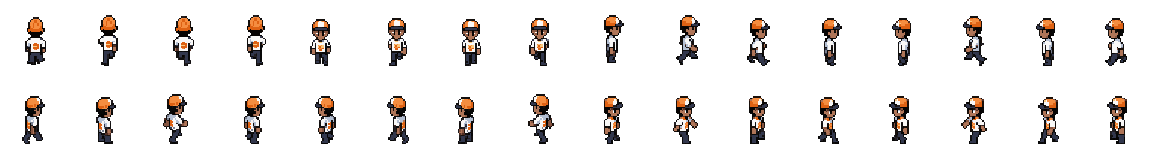
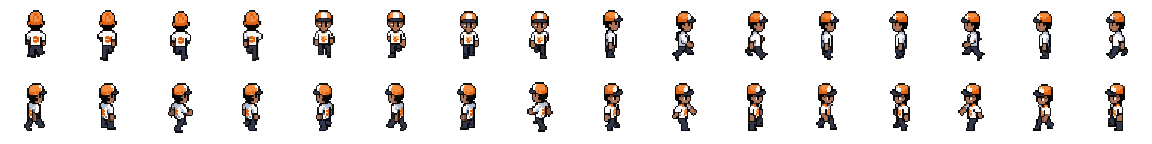
Alterações em colisões e dinâmica de funcionamento de mapa

Changed region(s): [[0.0, 0.5833, 1.0, 1.0], [0.0, 0.0833, 1.0, 0.4722]]

diff --git a/src/gameplay/jogador.c b/src/gameplay/jogador.c
@@ -38,7 +38,7 @@ static Rectangle regiao_solida_tile(char tile, int linha, int coluna)
  * @return true se o retângulo colide com o mapa
  * @return false caso o retângulo esteja inteiramente sobre área livre
  */
-static bool colide_mapa(const Jogo *jogo, Rectangle r)
+static bool colide_mapa(const Mapa *mapa, Rectangle r)
 {
     if (r.x < 0.0f || r.y < 0.0f ||
         r.x + r.width > MAPA_COLUNAS * TILE_SIZE ||
@@ -46,13 +46,13 @@ static bool colide_mapa(const Jogo *jogo, Rectangle r)
         return true; /* fora da matriz conta como parede */
 
     int coluna0 = (int)(r.x / TILE_SIZE);
-    int coluna1 = (int)((r.x + r.width) / TILE_SIZE);
+    int coluna1 = (int)ceilf((r.x + r.width) / TILE_SIZE) - 1;
     int linha0 = (int)(r.y / TILE_SIZE);
-    int linha1 = (int)((r.y + r.height) / TILE_SIZE);
+    int linha1 = (int)ceilf((r.y + r.height) / TILE_SIZE) - 1;
 
     for (int linha = linha0; linha <= linha1; linha++) {
         for (int coluna = coluna0; coluna <= coluna1; coluna++) {
-            Rectangle solido = regiao_solida_tile(jogo->mapa.tiles[linha][coluna], linha, coluna);
+            Rectangle solido = regiao_solida_tile(mapa->tiles[linha][coluna], linha, coluna);
             if (solido.width > 0.0f && CheckCollisionRecs(r, solido))
                 return true;
         }
@@ -74,12 +74,24 @@ void atualiza_hitbox_jogador(Jogador *jogador)
         sprite_x + PERSONAGEM_X0_NO_FRAME * escala,
         sprite_y + PERSONAGEM_Y0_NO_FRAME * escala,
         (PERSONAGEM_X1_NO_FRAME - PERSONAGEM_X0_NO_FRAME + 1.0f) * escala,
-        (PERSONAGEM_Y1_NO_FRAME - PERSONAGEM_Y0_NO_FRAME + 1.0f) * escala};
+        (PERSONAGEM_Y1_NO_FRAME - PERSONAGEM_Y0_NO_FRAME + 1.0f) * escala - TILE_SIZE / 2};
 }
 
 void atualiza_jogador(Jogo *jogo)
 {
     Jogador *jogador = &jogo->jogador;
+    const Mapa *mapa;
+
+    switch (jogo->tela_atual) {
+    case RECEPCAO:
+        mapa = &jogo->mapa[MAPA_RECEPCAO];
+        break;
+    case COZINHA:
+        mapa = &jogo->mapa[MAPA_COZINHA];
+        break;
+    default:
+        return;
+    }
 
     float dx = 0.0f;
     float dy = 0.0f;
@@ -105,12 +117,12 @@ void atualiza_jogador(Jogo *jogo)
        continua deslizando no outro */
     Rectangle teste = jogador->hitbox;
     teste.x += dx * passo;
-    if (!colide_mapa(jogo, teste))
+    if (!colide_mapa(mapa, teste))
         jogador->posicao.x += dx * passo;
 
     teste = jogador->hitbox;
     teste.y += dy * passo;
-    if (!colide_mapa(jogo, teste))
+    if (!colide_mapa(mapa, teste))
         jogador->posicao.y += dy * passo;
 
     /* o tile atual passa a ser o tile sobre o centro da hitbox */

diff --git a/src/presentation/render.c b/src/presentation/render.c
@@ -6,13 +6,21 @@ static Font fonte_jogo;
 Texture2D recepcao;
 Texture2D cozinha;
 Texture2D jogador_frames;
+Texture2D parede_baixo;
+Texture2D bancada_normal;
+Texture2D bancada_tabua;
+Texture2D fogao;
 void carregaAssets(void)
 {
     jogador_frames = LoadTexture("assets/imagens/principal.png");
     recepcao = LoadTexture("assets/imagens/mapas/mapa_1.png");
     cozinha = LoadTexture("assets/imagens/mapas/mapa_2.png");
     fundo = LoadTexture("assets/imagens/Imagem_Fundo_Dado_Burger.png");
+    parede_baixo = LoadTexture("assets/imagens/mapas/parede_baixo_mapa_2.png");
     fonte_jogo = GetFontDefault();
+    bancada_normal = LoadTexture("assets/imagens/cozinha/bancada.png");
+    fogao = LoadTexture("assets/imagens/cozinha/fogao.png");
+    bancada_tabua = LoadTexture("assets/imagens/cozinha/bancada_tabua.png");
 }
 
 bool coloreSeColide(Rectangle rec, Vector2 pos_mouse)
@@ -251,6 +259,10 @@ void desenhaJogador(Jogador *jogador)
     }
     DrawTexturePro(jogador_frames, tamanho_frames(&jogador->animacao, 72, 72, 16),
                    retangulo_jogador, centro, 0.0f, WHITE);
+}
+
+void desenhaEquipamentos(const Jogo * jogo){
+    
 }
 
 void desenhaJogo(Jogo *jogo)
@@ -572,13 +584,24 @@ void desenhaJogo(Jogo *jogo)
         DrawTexturePro(recepcao, origem, destino, (Vector2){0, 0}, 0.0f, WHITE);
         desenhaJogador(&jogo->jogador);
         atualiza_anim_entidades(jogo);
+        float distancia_para_cozinha = (MAPA_COLUNAS - 2) * TILE_SIZE;
+        if(jogo->jogador.posicao.x >= distancia_para_cozinha){
+            jogo->tela_atual = COZINHA;
+        }
 
         break;
 
     case COZINHA:
-        Rectangle origem_2 = {0, 0, (float)recepcao.width, (float)recepcao.height};
+        Rectangle origem_2 = {0, 0, (float)cozinha.width, (float)cozinha.height};
         Rectangle destino_2 = {0, 0, JANELA_LARGURA, JANELA_ALTURA}; /* 1280x720 */
         DrawTexturePro(cozinha, origem_2, destino_2, (Vector2){0, 0}, 0.0f, WHITE);
+        desenhaEquipamentos(jogo);
+        desenhaJogador(&jogo->jogador);
+        Rectangle origem_parede_baixo = {
+            0, 0, (float)parede_baixo.width, (float)cozinha.height};
+        DrawTexturePro(parede_baixo, origem_parede_baixo, destino_2,
+                       (Vector2){0, 0}, 0.0f, WHITE);
+        atualiza_anim_entidades(jogo);
     default:
         break;
     }
@@ -586,5 +609,9 @@ void desenhaJogo(Jogo *jogo)
 
 void descarregaAssets(void)
 {
+    UnloadTexture(fogao);
+    UnloadTexture(bancada_normal);
+    UnloadTexture(bancada_tabua);
     UnloadTexture(fundo);
+    UnloadTexture(parede_baixo);
 }

diff --git a/src/main.c b/src/main.c
@@ -4,14 +4,32 @@
 #include "io/mapa_io.h"
 #include "presentation/mapa.h"
 #include "gameplay/jogador.h"
+
+static void carrega_estruturas_da_tela(Jogo *jogo)
+{
+    switch (jogo->tela_atual) {
+    case RECEPCAO:
+        carrega_estruturas_mapa(jogo->mapa[MAPA_RECEPCAO].tiles, jogo);
+        break;
+    case COZINHA:
+        carrega_estruturas_mapa(jogo->mapa[MAPA_COZINHA].tiles, jogo);
+        break;
+    default:
+        break;
+    }
+}
+
 int main(int argc, char **argv)
 {
     Jogo meu_jogo = {0};
-    if(!carregar_mapa("dados/tela_jogo_saguao.txt", meu_jogo.mapa.tiles)){
+    if(!carregar_mapa("dados/tela_jogo_saguao.txt", meu_jogo.mapa[MAPA_RECEPCAO].tiles)){
+        return 1;
+    }
+    if(!carregar_mapa("dados/tela_jogo_cozinha.txt", meu_jogo.mapa[MAPA_COZINHA].tiles)){
         return 1;
     }
 
-    carrega_estruturas_mapa(meu_jogo.mapa.tiles, &meu_jogo);
+    carrega_estruturas_mapa(meu_jogo.mapa[MAPA_RECEPCAO].tiles, &meu_jogo);
 
     SetConfigFlags(FLAG_WINDOW_RESIZABLE | FLAG_VSYNC_HINT);
     InitWindow(JANELA_LARGURA, JANELA_ALTURA, "Dado Burger");
@@ -45,14 +63,18 @@ int main(int argc, char **argv)
 
 
         /* movimentação do jogador (com colisão contra o mapa) nas telas jogáveis */
-        if (meu_jogo.tela_atual == RECEPCAO || meu_jogo.tela_atual == COZINHA)
+        if (meu_jogo.tela_atual == RECEPCAO || meu_jogo.tela_atual == COZINHA) {
             atualiza_jogador(&meu_jogo);
+        }
 
         /* 1. desenha tudo na textura lógica */
+        TelaAtual tela_anterior = meu_jogo.tela_atual;
         BeginTextureMode(alvo);
             ClearBackground(RAYWHITE);
             desenhaJogo(&meu_jogo);
         EndTextureMode();
+        if (meu_jogo.tela_atual != tela_anterior)
+            carrega_estruturas_da_tela(&meu_jogo);
 
         /* 2. apresenta escalada, mantendo proporção */
         BeginDrawing();

diff --git a/src/core/data_structures/hash.c b/src/core/data_structures/hash.c
@@ -2,7 +2,17 @@
 #include <stdio.h>
 #include <stdlib.h>
 
-void inserir(TabelaHash *t, int chave, int valor) {
+void inicializarHash(TabelaHash *t){
+    t->m =  TAMANHO_HASH;
+    t->n = 0;
+    t->tabela = malloc(t->m * sizeof(NoHash*));
+    for(int i = 0; i < t->m; i++){
+        t->tabela[i] = NULL;
+    }
+    
+}
+
+void inserirHash(TabelaHash *t, int chave, int valor) {
     int i = chave % t->m;
     NoHash *novo_no = (NoHash*) malloc(sizeof(NoHash));
     novo_no->chave = chave;
@@ -12,7 +22,7 @@ void inserir(TabelaHash *t, int chave, int valor) {
     t->n++;
 }
 
-int buscar(TabelaHash *t, int chave) {
+int buscarHash(TabelaHash *t, int chave) {
     int i = chave % t->m;
     NoHash *p = t->tabela[i];
     while (p != NULL) {
@@ -22,7 +32,7 @@ int buscar(TabelaHash *t, int chave) {
     return false;   /* não encontrado */
 }
 
-bool remover(TabelaHash *t, int chave) {
+bool removerHash(TabelaHash *t, int chave) {
     int i = chave % t->m;
     NoHash *p = t->tabela[i];
     NoHash *ant = NULL;

diff --git a/src/core/models.h b/src/core/models.h
@@ -31,6 +31,8 @@ typedef struct {
     MateriaisCozinha materiais; /**< Tipo do equipamento */
     Vector2 posicao_pixels; /**< Posição do equipamento em pixels */
     TileAtual tile_atual; /**< Posição do equipamento no mapa */
+    Rectangle hitbox;
+    
     bool em_uso; /**< Indica se o equipamento está em uso */
     float tempo_preparo_restante; /**< Tempo restante no preparo de um alimento */
 } EquipamentoCozinha;
@@ -57,5 +59,5 @@ typedef struct {
     TelaAtual tela_atual; /**< Tela atual que o jogo está apresentando */
     bool jogando; /**< Indica se uma partida está em andamento */
     float tempo; /**< Tempo decorrido na partida */
-    Mapa mapa; /**< Mapa da partida */
+    Mapa mapa[NUMERO_MAPAS]; /**< Mapas da partida: recepcao e cozinha */
 } Jogo;

diff --git a/src/presentation/render.h b/src/presentation/render.h
@@ -39,6 +39,12 @@ void determinaDirecao(Jogador *jogador);
 void desenhaJogador(Jogador *jogador);
 
 /**
+ * @brief Funcao que desenha os equipamentos utilizados na cozinha (fogao, tabua e bancada)
+ * @param equipamentos lista de equipamentos
+ */
+void desenhaEquipamentos(const Jogo* jogo);
+
+/**
  * @brief Desenha os elementos da tela atual do jogo.
  * @param[in,out] jogo Estado do jogo a desenhar
  */

diff --git a/src/core/constants.h b/src/core/constants.h
@@ -9,6 +9,13 @@
 /** Tamanho de cada tile em pixels */
 #define TILE_SIZE 40
 
+/** Numero de mapas do jogo */
+#define NUMERO_MAPAS 2
+/** Indice do mapa da recepcao no vetor de mapas */
+#define MAPA_RECEPCAO 0
+/** Indice do mapa da cozinha no vetor de mapas */
+#define MAPA_COZINHA 1
+
 /** Numero de clientes por partida */
 #define CLIENTES_POR_PARTIDA 7
 

diff --git a/src/presentation/mapa.h b/src/presentation/mapa.h
@@ -7,4 +7,4 @@
  * @param[in] mapa Matriz de caracteres do mapa
  * @param[in,out] jogo Estado do jogo que receberá as posições das entidades
  */
-void carrega_estruturas_mapa(char mapa[][MAPA_COLUNAS], Jogo *jogo);
+void carrega_estruturas_mapa(const char mapa[][MAPA_COLUNAS], Jogo *jogo);

diff --git a/src/presentation/mapa.c b/src/presentation/mapa.c
@@ -1,6 +1,6 @@
 #include "mapa.h"
 
-void carrega_estruturas_mapa(char mapa[][MAPA_COLUNAS], Jogo *jogo){
+void carrega_estruturas_mapa(const char mapa[][MAPA_COLUNAS], Jogo *jogo){
 
     for(int linha = 0; linha < MAPA_LINHAS; linha++) {
 

diff --git a/src/core/data_structures/hash.h b/src/core/data_structures/hash.h
@@ -1,6 +1,6 @@
 #pragma once
 /** Tamanho da tabela hash usada pelo projeto */
-#define TAM_HASH 51
+#define TAMANHO_HASH 51
 #include <stdbool.h>
 #include "../cliente.h"
 
